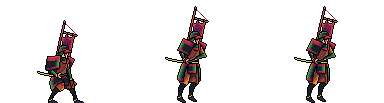
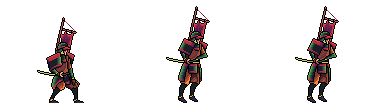
fix animation

Changed region(s): [[0.75, 0.0583, 0.875, 0.9903], [0.4062, 0.0583, 0.5625, 1.0], [0.0938, 0.1748, 0.2188, 1.0]]

diff --git a/player.py b/player.py
@@ -82,7 +82,10 @@ class Player(pygame.sprite.Sprite):
         self.projectiles_group = None
         
     def update(self):
-
+        if self.status == JUMP:
+            print("jump")
+        if self.status == FALL:
+            print("fall")
         self.increaseframe()
         # print(self.frame)
         # 使顯示的血量和能量逐漸逼近實際值
@@ -155,6 +158,7 @@ class Player(pygame.sprite.Sprite):
             # If you're in the air and press down, you will fall faster
             if keys[self.down] and self.jumping:
                 self.y_velocity = MAX_FALL_SPEED
+                self.changeStatus(KNEEL)
             # If you're on the ground and press down, you will defend
             elif keys[self.down]:
                 self.defending = True
@@ -187,7 +191,8 @@ class Player(pygame.sprite.Sprite):
                     self.changeStatus(JUMP)
                     self.jump_count += 1
                     self.last_jump_time = current_time  # Update last jump time
-            
+            else:
+                self.changeStatus(GAURD)
             if keys[self.up] == False and keys[self.left] == False and keys[self.right] == False and keys[self.down] == False and self.jumping == False and keys[self.atk_key] == False and keys[self.range_atk_key] == False and keys[self.special_key] == False:
                 self.changeStatus(IDLE)
 
@@ -206,8 +211,8 @@ class Player(pygame.sprite.Sprite):
         self.rect.y += self.y_velocity
 
         # Check if landed
-        if self.rect.y >= HEIGHT - 220:
-            self.rect.y = HEIGHT - 220
+        if self.rect.y >= HEIGHT - 320:
+            self.rect.y = HEIGHT - 320
             self.jumping = False
             self.y_velocity = 0
             self.jump_count = 0  # Reset jump count when the player lands
@@ -230,6 +235,9 @@ class Player(pygame.sprite.Sprite):
         if keys[self.energy_atk_key]:
             self.attack(self.other_player, powerful=True)
         #self.draw(None)
+        # check falling
+        if self.y_velocity > 0:
+            self.changeStatus(FALL)
             
     def attack(self, other_player, powerful=False):
         
@@ -304,32 +312,46 @@ class Player(pygame.sprite.Sprite):
         
 
     def changeStatus(self, status):
-        if self.status != status or status == JUMP or (status == ATTACK1 and self.frame == character.character_data[self.index]['attack1Frame'] - 1):
+        if self.status != status :#or status == JUMP:
             self.frame = 0
+
         self.status = status
+
         if status == IDLE:
             self.frame_rate = 10
             self.sprite_sheet = Spritesheet(character.character_data[self.index]['idle'], character.character_data[self.index]['idleFrame'])
         elif status == JUMP:
-            self.frame_rate  = 8
+            self.frame_rate  = 10
             self.sprite_sheet = Spritesheet(character.character_data[self.index]['jump'], character.character_data[self.index]['jumpFrame'])    
         elif status == WALK:
             self.frame_rate = 10
             self.sprite_sheet = Spritesheet(character.character_data[self.index]['walk'], character.character_data[self.index]['walkFrame'])
         elif status == ATTACK1:
             if character.character_data[self.index]['name'] == "Samurai" or character.character_data[self.index]['name'] == "Commander":
-                self.frame_rate = 7
+                self.frame_rate = 3
             else: # Archer
-                self.frame_rate = 2
+                self.frame_rate = 1
             self.sprite_sheet = Spritesheet(character.character_data[self.index]['attack1'], character.character_data[self.index]['attack1Frame'])
-        
+        elif status == GAURD:
+            if character.character_data[self.index]['name'] == "Samurai" or character.character_data[self.index]['name'] == "Commander":
+                self.frame_rate = 4
+            else: # Archer
+                self.frame_rate = 3
+            self.sprite_sheet = Spritesheet(character.character_data[self.index]['protect'], character.character_data[self.index]['protectFrame'])
+        elif status == FALL:
+            self.frame_rate = 10
+            self.sprite_sheet = Spritesheet(character.character_data[self.index]['fall'], character.character_data[self.index]['fallFrame'])
+        elif status == KNEEL:
+            self.frame_rate = 10
+            self.sprite_sheet = Spritesheet(character.character_data[self.index]['kneel'], character.character_data[self.index]['kneelFrame'])
+    
+    
     def increaseframe(self):
         """增加動畫幀，根據 frame_rate 決定是否更新"""
         self.frame_counter += 1
         if self.frame_counter >= self.frame_rate:
             if self.status == JUMP and self.frame == character.character_data[self.index]['jumpFrame'] - 1:
                 self.frame_counter = 0  # 重置計數器，但不更新幀
-                self.changeStatus(IDLE)
                 return
         
             # 攻擊動畫到最後一幀時不循環
@@ -338,6 +360,10 @@ class Player(pygame.sprite.Sprite):
                 self.changeStatus(IDLE)
                 return
                 # 如果不在特殊狀態，或動畫可以循環
+
+            if self.status == GAURD and self.frame == character.character_data[self.index]['protectFrame'] - 1:
+                self.frame_counter = 0  # 重置計數器，但不更新幀
+                return
             self.frame = (self.frame + 1) % self.sprite_sheet.num_sprites  # 更新幀
             self.frame_counter = 0  # 重置計數器
 

diff --git a/ch.py b/ch.py
@@ -14,14 +14,20 @@ class character:
             "range_cooldown": 0.5,
             "idle": "images/character/Archer/Idle.png",
             "walk": "images/character/Archer/Run.png",
-            "jump": "images/character/Archer/Jumpup.png",
+            "jump": "images/character/Archer/Jumpup1.png",
             #"attack1": "images/character/Archer/Attack_1.png",
             "attack1": "images/character/Archer/Shot.png",
+            "protect": "images/character/Archer/Protect.png",
+            "fall": "images/character/Archer/Falling.png",
+            "kneel": "images/character/Archer/Kneel.png",
             "idleFrame": 9,
             "walkFrame": 8,
-            "jumpFrame": 5,
+            "jumpFrame": 3,
             "attack1Frame": 14,
             #"shootFrame": 14,
+            "protectFrame": 3,
+            "fallFrame": 3,
+            "kneelFrame": 2,
             
         },
         {
@@ -38,12 +44,18 @@ class character:
             "range_cooldown": 0.5,
             "idle": "images/character/Samurai/Idle.png",
             "walk": "images/character/Samurai/Run.png",
-            "jump": "images/character/Samurai/Jumpup.png",
+            "jump": "images/character/Samurai/Jumpup1.png",
             "attack1": "images/character/Samurai/Attack_2.png",
+            "protect": "images/character/Samurai/Protect.png",
+            "fall": "images/character/Samurai/Falling.png",
+            "kneel": "images/character/Samurai/Kneel.png",
             "idleFrame": 6,
             "walkFrame": 8,
-            "jumpFrame": 4,
+            "jumpFrame": 3,
             "attack1Frame": 5,
+            "protectFrame": 2,
+            "fallFrame": 2,
+            "kneelFrame": 2,
 
         },
         {
@@ -60,11 +72,17 @@ class character:
             "range_cooldown": 0.5,
             "idle": "images/character/Commander/Idle.png",
             "walk": "images/character/Commander/Run.png",
-            "jump": "images/character/Commander/Jumpup.png",
+            "jump": "images/character/Commander/Jumpup1.png",
             "attack1": "images/character/Commander/Attack_2.png",
+            "protect": "images/character/Commander/Protect.png",
+            "fall": "images/character/Commander/Falling.png",
+            "kneel": "images/character/Commander/Kneel.png",
             "idleFrame": 5,
             "walkFrame": 8,
             "jumpFrame": 3,
             "attack1Frame": 5,
+            "protectFrame": 2,
+            "fallFrame": 2,
+            "kneelFrame": 2,
         },
     ]

diff --git a/const.py b/const.py
@@ -24,5 +24,8 @@ IDLE = 0
 WALK = 1
 JUMP = 2
 ATTACK1 = 3
+FALL = 4
+GAURD = 5
+KNEEL = 6
 # 邊界
 BORDER = (0, WIDTH)
